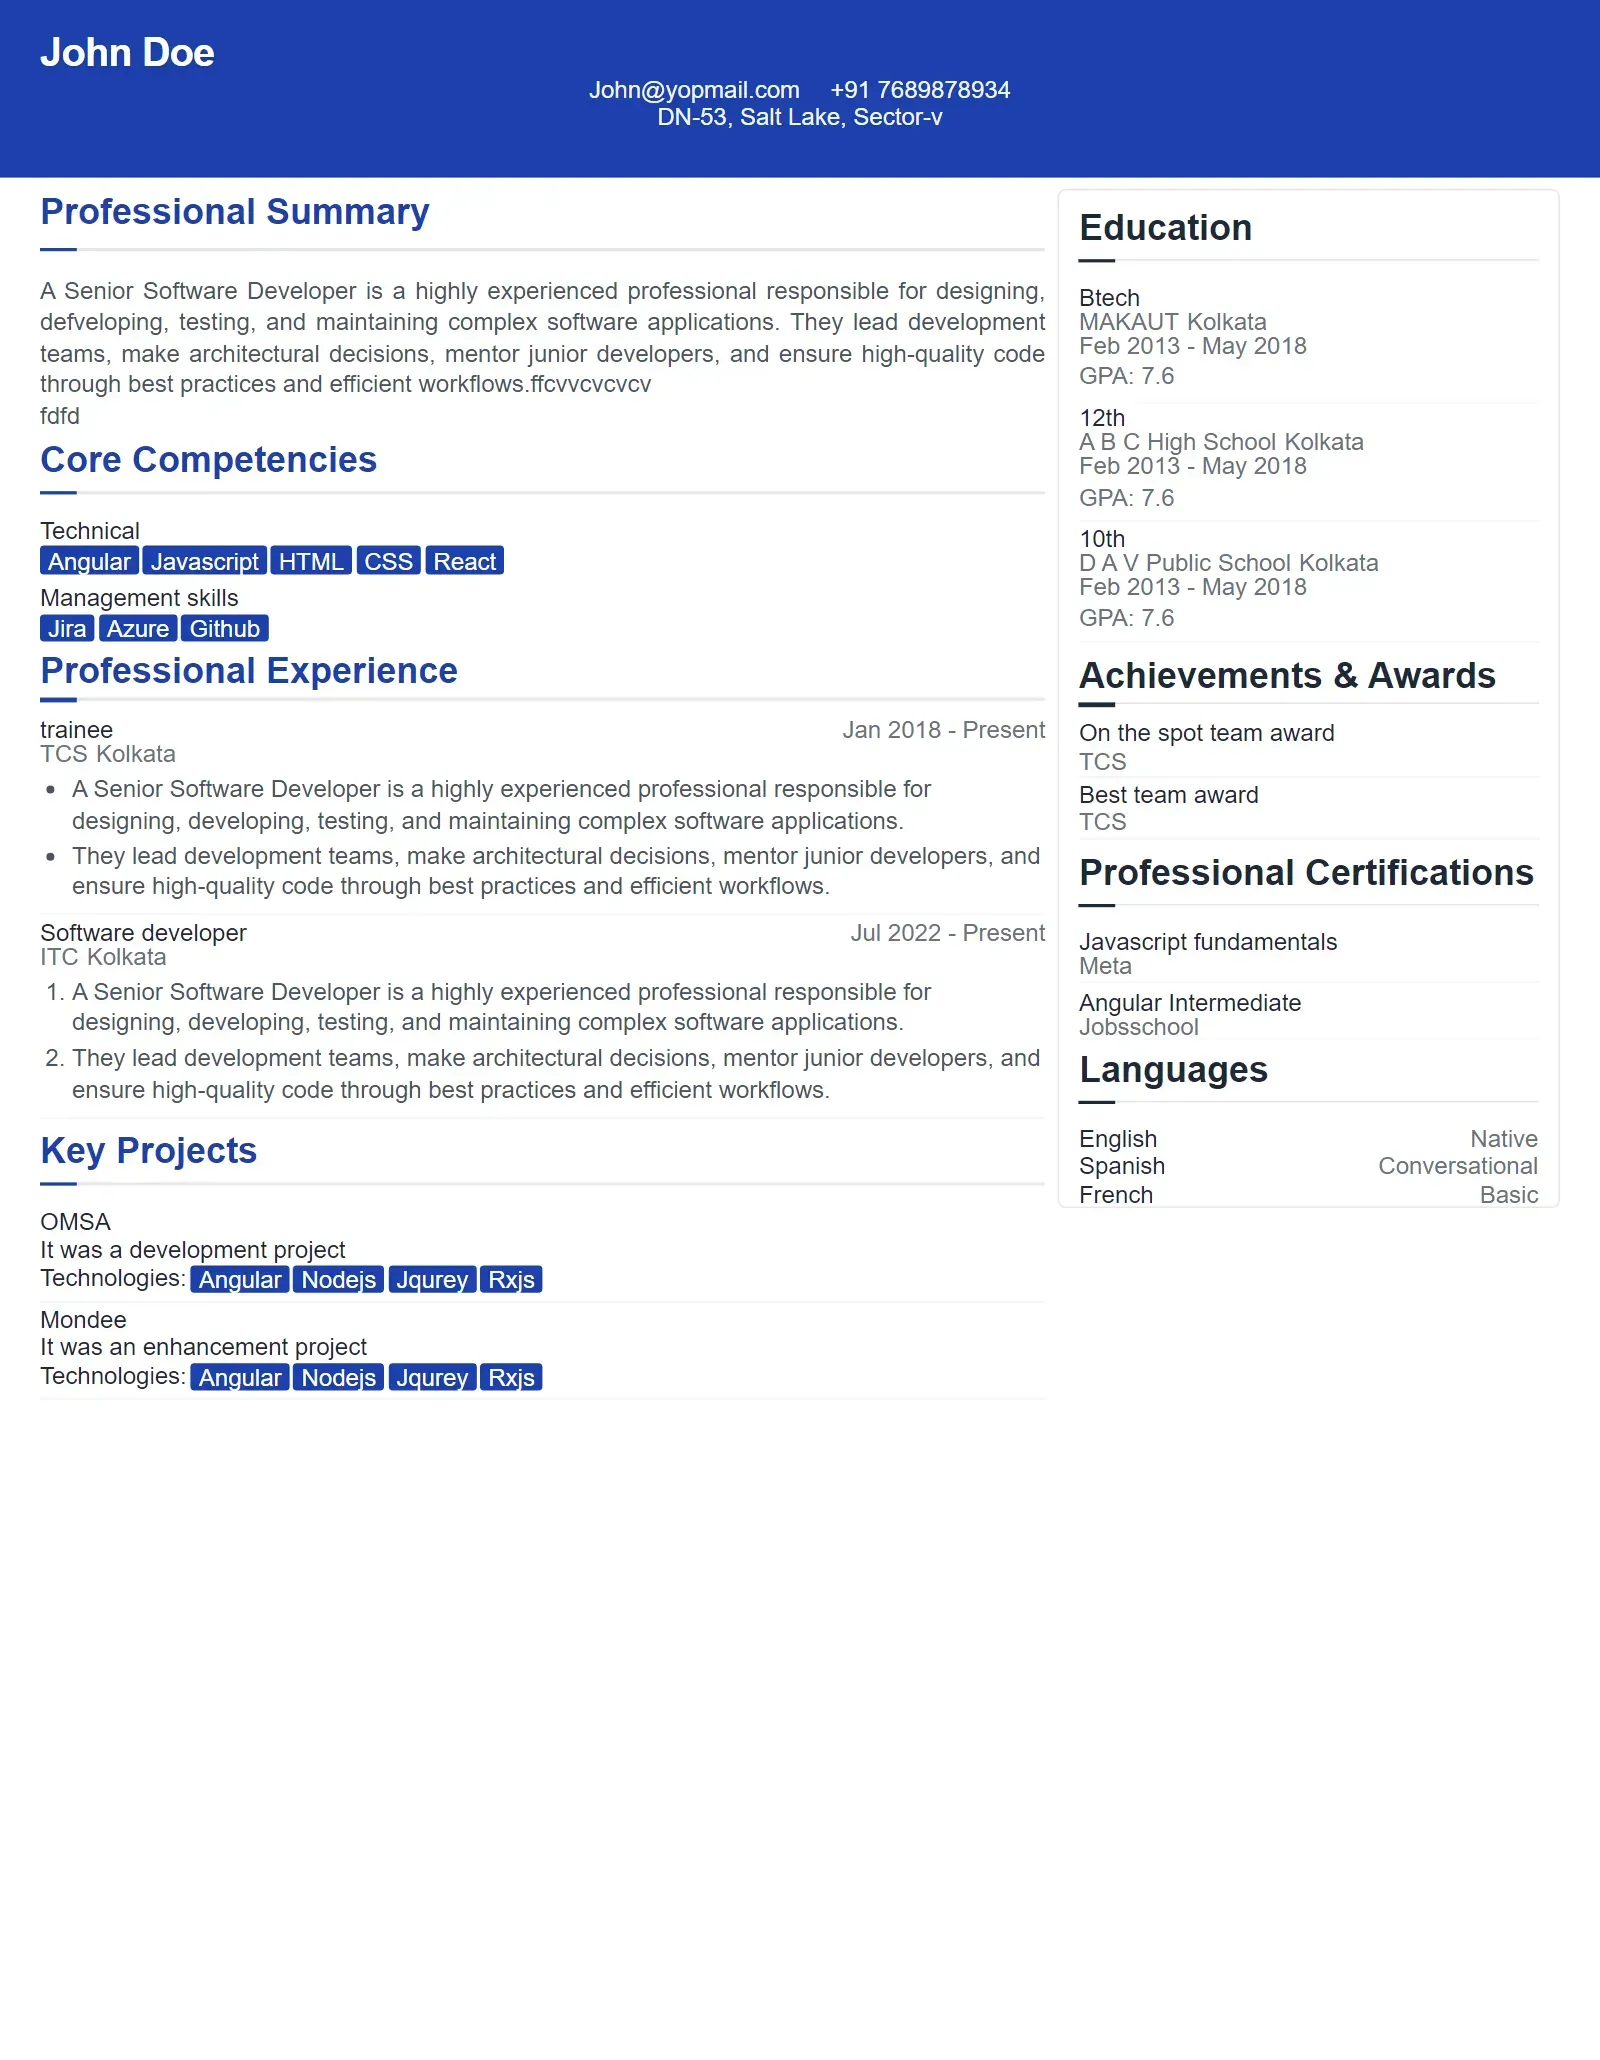
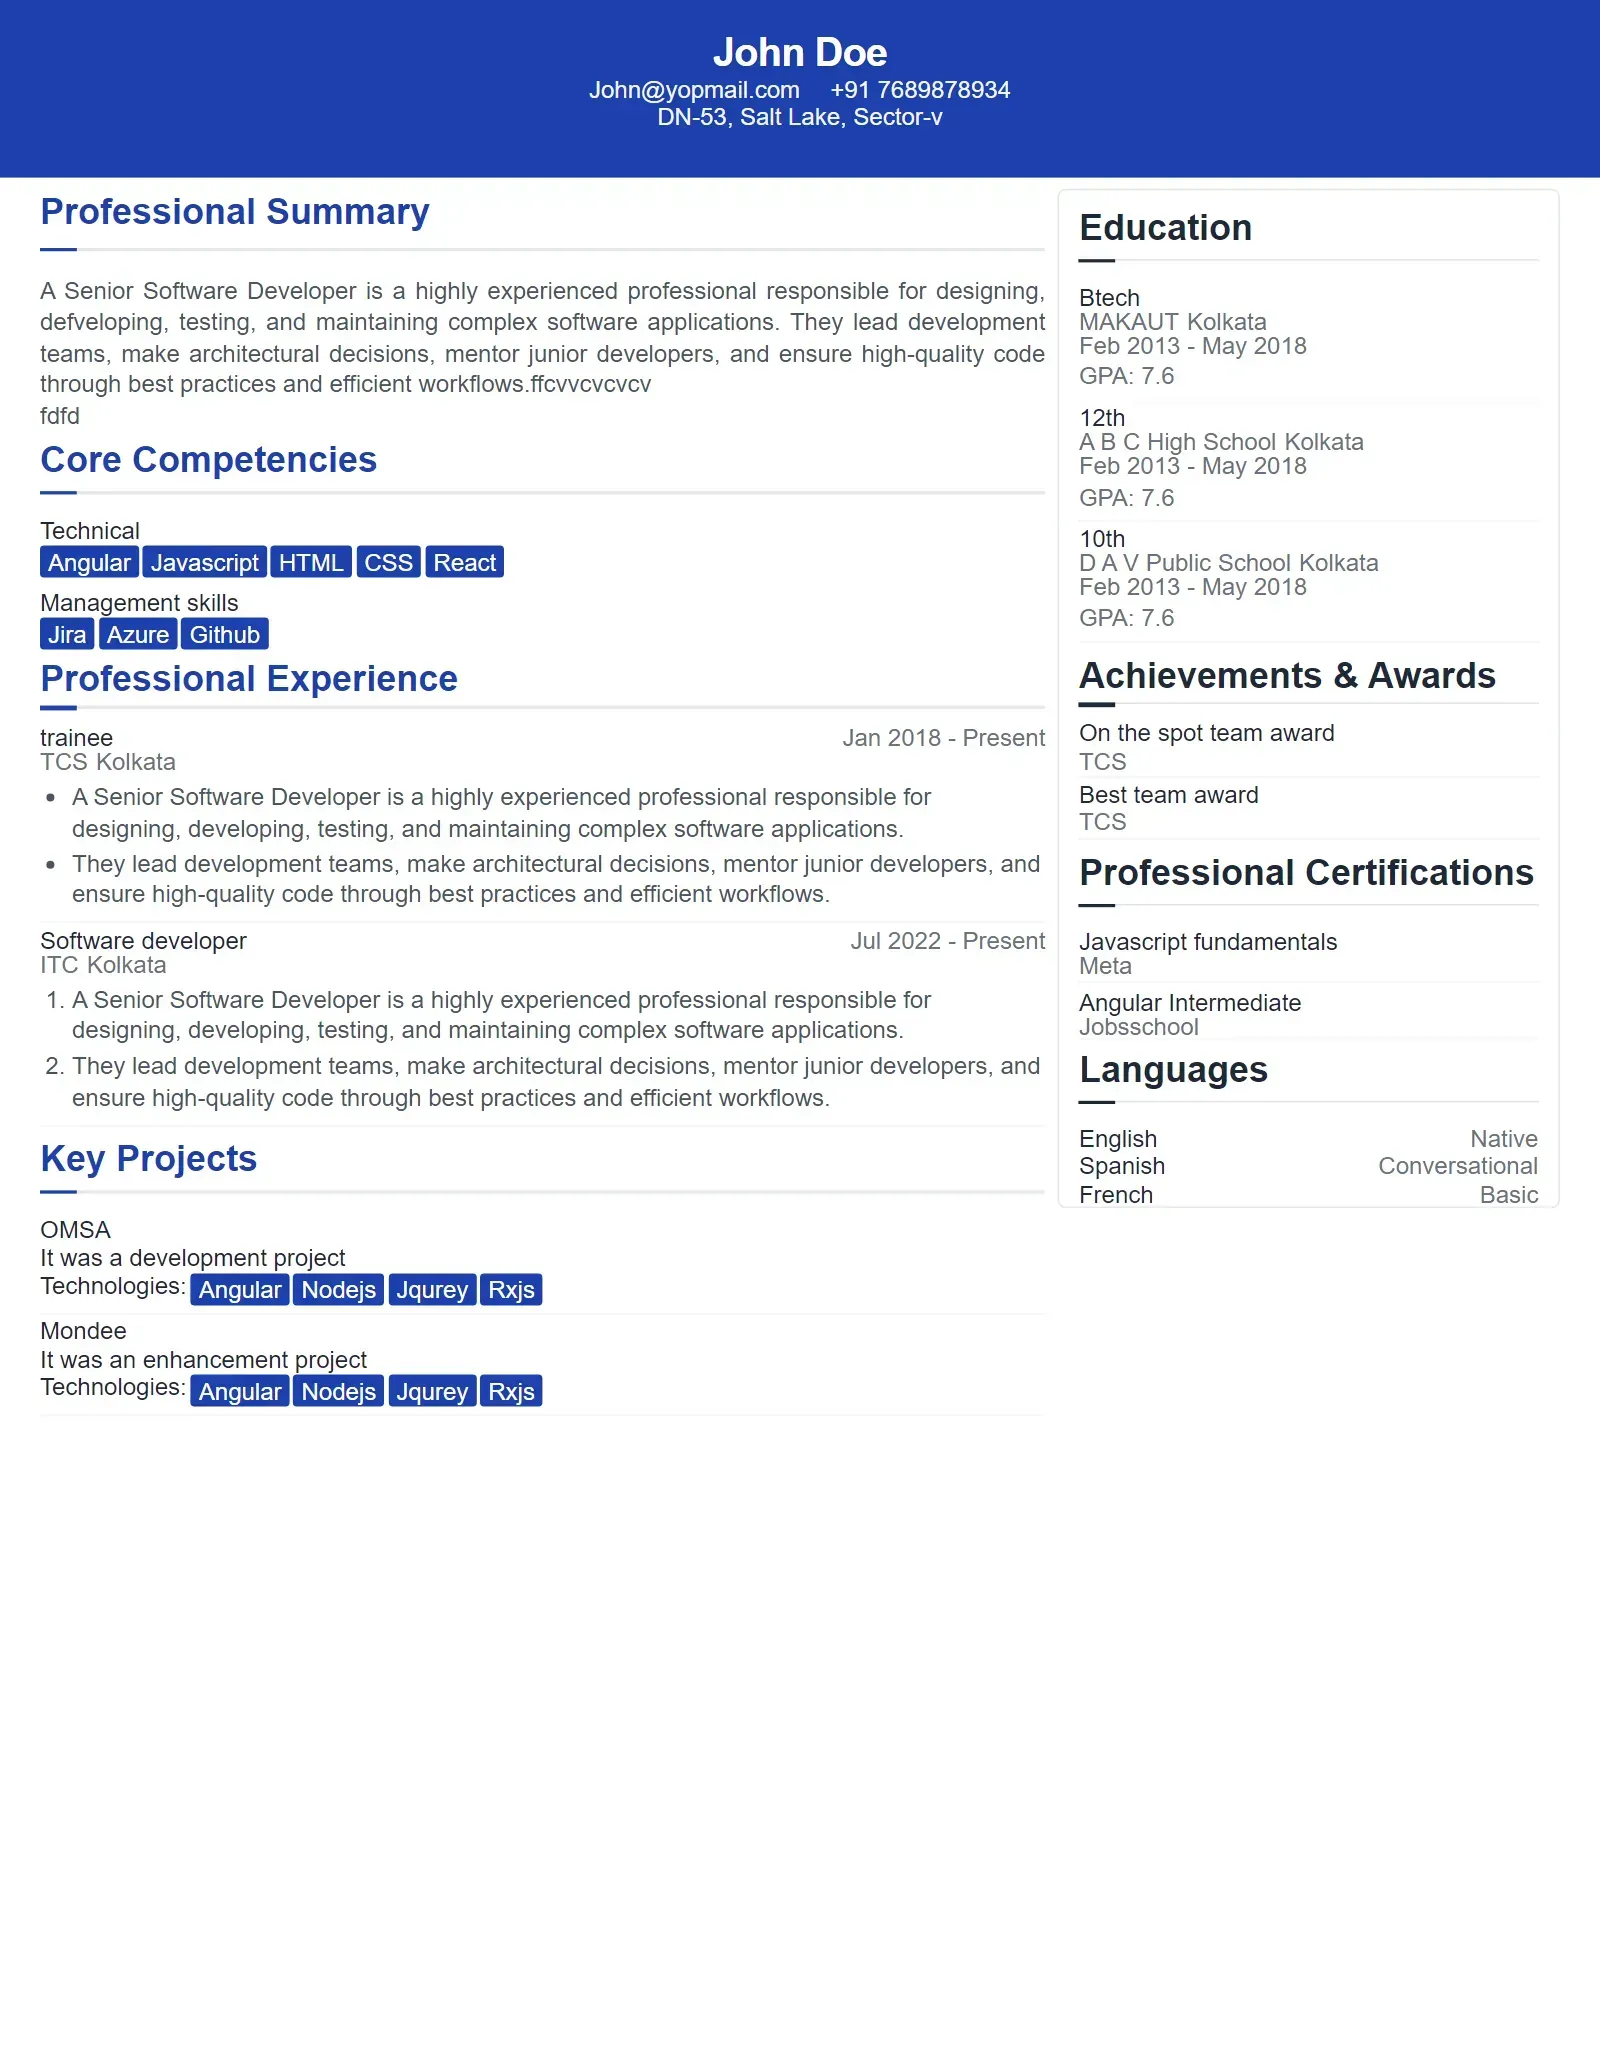
template fixes

diff --git a/backend/assets/professionalTemplate.js b/backend/assets/professionalTemplate.js
@@ -245,7 +245,7 @@ module.exports = [
         .header { background: linear-gradient(135deg, #1e40af 0%, #3b82f6 100%); color: white; padding: 16px 20px 10px; margin-bottom: 6px; border-radius: 0 0 6px 6px; box-shadow: 0 2px 6px rgba(30, 64, 175, 0.2); }
         @media print { .header { background: #1e40af !important; border-radius: 0; box-shadow: none; } }
         .header-content { max-width: 100%; }
-        .name { font-weight: 700; margin-bottom: 6px; letter-spacing: -0.5px; text-shadow: 0 1px 2px rgba(0,0,0,0.1); }
+        .name { font-weight: 700; margin-bottom: 6px; letter-spacing: -0.5px; text-shadow: 0 1px 2px rgba(0,0,0,0.1); text-align: center; }
         .contact-info { display: flex; flex-direction: column; gap: 2px; }
         .contact-row { display: flex; gap: 15px; flex-wrap: wrap; justify-content: center; }
         .contact-item { opacity: 0.95; }
@@ -276,7 +276,7 @@ module.exports = [
         
         .technologies { display: flex; flex-wrap: wrap; gap: 2px; margin: 2px 0; }
         .tech-label { font-weight: bold; display: inline; }
-        .tech-tag { background: #1e40af; color: white; padding: 1px 4px; border-radius: 2px; }
+        .tech-tag { background: #1e40af; color: white; padding: 2px 4px; border-radius: 2px; }
         
         .project-links { margin: 2px 0; }
         .project-links a { color: #1e40af; text-decoration: none; margin-right: 8px; }
@@ -297,7 +297,7 @@ module.exports = [
         .skill-category { margin-bottom: 2px; }
         .skill-category-title { font-weight: 600; color: #1f2937; margin-bottom: 2px; }
         .skill-items { display: flex; flex-wrap: wrap; gap: 2px; margin-top: 2px; }
-        .skill-item { background: #1e40af; color: white; padding: 1px 4px; border-radius: 2px; }
+        .skill-item { background: #1e40af; color: white; padding: 2px 4px; border-radius: 2px; }
         .skill-item[data-level="expert"] { background: #059669; }
         .skill-item[data-level="advanced"] { background: #0ea5e9; }
         .skill-item[data-level="intermediate"] { background: #1e40af; }

diff --git a/backend/assets/modernTemplates.js b/backend/assets/modernTemplates.js
@@ -1600,7 +1600,7 @@ module.exports = [
             </section>
             {{/if}}
           </article>`,
-          css: `.resume.bold-accent { font-family: 'Arial', sans-serif; max-width: 8.5in; margin: 0 auto; background: white; color: #1f2937; line-height: 1.4; padding: 0; }
+          css: `.resume.bold-accent { font-family: 'Arial', sans-serif; max-width: 8.5in; margin: 0 5px; background: white; color: #1f2937; line-height: 1.4; padding: 0; }
           .header { background: linear-gradient(135deg, #1e40af 0%, #3b82f6 100%); color: white; padding: 16px 20px; margin-bottom: 12px; }
           .name { font-weight: 700; margin-bottom: 6px; letter-spacing: -0.5px; color: white; }
           .contact-info { display: flex; flex-wrap: wrap; gap: 12px; color: rgba(255, 255, 255, 0.9); line-height: 1.4; }
